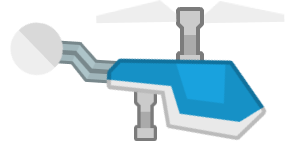
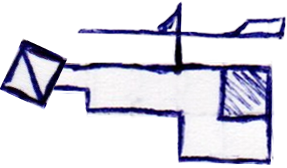
Fix spawn block logic

diff --git a/js/entities/transports/Crane.js b/js/entities/transports/Crane.js
@@ -2,82 +2,68 @@ import { Transport } from './Transport.js';
 import { CONFIG } from '../../config.js';
 
 /**
- * Кран — раскачивается по синусоиде (зона "Земля")
- * Использует загруженный PNG-спрайт.
+ * Кран: жёстко закреплён вверху экрана, раскачивается.
+ * Блок спавнится строго под нижней границей спрайта.
  */
 export class Crane extends Transport {
     constructor(scene) {
         super(scene);
         this.craneSprite = null;
+        this.currentX = scene.scale.width / 2;
+        
+        // Расстояние от ВЕРХНЕГО края экрана до верха крана
+        this.SCREEN_Y = -10; 
     }
 
     activate(spawnY) {
         super.activate(spawnY);
-        this.baseY = spawnY;
 
-        // Создаём спрайт крана, если его ещё нет
         if (!this.craneSprite) {
             this.craneSprite = this.scene.add.image(0, 0, CONFIG.TEXTURES.CRANE);
-
-            // Масштаб 1.5
+            
             this.craneSprite.setScale(1);
-            
-            // Точка привязки: верхний центр спрайта
             this.craneSprite.setOrigin(0.5, 0); 
-            
-            // Фиксируем на экране, чтобы он не уезжал вместе с камерой вниз
-            this.craneSprite.setScrollFactor(0); 
-            
-            // Рисуем поверх блоков (depth 50), но под UI (depth 100+)
-            this.craneSprite.setDepth(50); 
+            this.craneSprite.setScrollFactor(0);
+            this.craneSprite.setDepth(50);
         }
 
-        this.craneSprite.setPosition(this.currentX, 0);
+        this.craneSprite.setPosition(this.currentX, this.SCREEN_Y);
         this.craneSprite.setVisible(true);
     }
 
-    /*
-    getBlockAttachPoint() {
-        // Кран закреплён на экране на Y=50
-        // Чтобы получить мировую координату, нужно добавить scrollY камеры
+        getBlockSpawnPosition() {
+        if (!this.craneSprite) {
+            return { x: this.scene.scale.width / 2, y: 100 };
+        }
+
         const cameraScrollY = this.scene.cameras.main.scrollY;
-        const craneScreenY = 0; // Позиция крана на экране
-        const craneWorldY = craneScreenY; //+ cameraScrollY;
-        
-        // Нижняя граница крана в мировых координатах
-        const craneBottom = craneWorldY; //+ (this.craneSprite.displayHeight);
-        
+        const craneWorldY = this.craneSprite.y + cameraScrollY;
+        const craneBottom = craneWorldY + this.craneSprite.displayHeight;
+       
+        const gap = 50;
+
         return {
-            x: this.craneSprite.x,
-            y: craneBottom
+            x: this.currentX,
+            y: craneBottom + gap
         };
     }
-        */
-
-    /**
-     * @param {number} time
-     * @param {number} delta
-     * @param {object} zoneConfig - параметры зоны (swing, speed)
-     */
 
     update(time, delta, zoneConfig) {
         const centerX = this.scene.scale.width / 2;
-        const offset = Math.sin(time * CONFIG.CRANE.SPEED) * CONFIG.CRANE.SWING;
-        const craneX = centerX + offset;
-        const craneY = -10; // Отступ от самого верха экрана
+        const speed = zoneConfig?.speed || CONFIG.CRANE.SPEED;
+        const swing = zoneConfig?.swing || CONFIG.CRANE.SWING;
 
-        // Обновляем позицию крана
+        const offset = Math.sin(time * speed) * swing;
+        this.currentX = centerX + offset;
+
         if (this.craneSprite) {
-            this.craneSprite.setPosition(craneX, craneY);
+            this.craneSprite.setPosition(this.currentX, this.SCREEN_Y);
         }
 
-        
-        // Возвращаем координаты, где должен появиться блок
         return { 
-            x: craneX, 
-            y: craneY
+            x: this.currentX, 
+            y: this.baseY 
         };
-        
     }
 
     deactivate() {
@@ -93,9 +79,5 @@ export class Crane extends Transport {
             this.craneSprite.destroy();
             this.craneSprite = null;
         }
-    }
-
-     getBlockOffsetY() {
-        return 0;
     }
 }

diff --git a/js/GameScene.js b/js/GameScene.js
@@ -168,17 +168,22 @@ export default class GameScene extends Phaser.Scene {
         const zone = getZoneByDistance(this.distanceLeft);
         const spawnY = this.cameras.main.scrollY + CONFIG.CAMERA.SPAWN_OFFSET;
 
-        // Создаём/активируем нужный транспорт
+        // Создаём/активируем транспорт
         if (!this.activeTransport || this.activeTransport.constructor.name.toLowerCase() !== zone.transport) {
             if (this.activeTransport) this.activeTransport.destroy();
             this.activeTransport = this.transportFactories[zone.transport]();
         }
         this.activeTransport.activate(spawnY);
 
-        // Создаём активный блок под транспортом
-        const pos = this.activeTransport.update(0, 0);
-        this.activeBlock = new Block(this, pos.x, pos.y + this.activeTransport.getBlockOffsetY());
+        // Обновляем позицию транспорта
+        this.activeTransport.update(this.time.now, 0, this.currentZone);
+        
+        // 🎯 ВЫЗОВ БЕЗ АРГУМЕНТОВ
+        const spawnPos = this.activeTransport.getBlockSpawnPosition();
 
+        // Создаём блок
+        this.activeBlock = new Block(this, spawnPos.x, spawnPos.y);
+        
         if (zone.transport === 'crane') {
             this.activeBlock.addGlow();
         }
@@ -480,13 +485,13 @@ export default class GameScene extends Phaser.Scene {
 
         // Обновление транспорта и позиции активного блока
         if (this.activeBlock && !this.isDropping && !this.isGameOver && this.activeTransport) {
-            const pos = this.activeTransport.update(time, delta, this.currentZone);
-            this.activeBlock.sprite.setPosition(
-                pos.x,
-                pos.y + this.activeTransport.getBlockOffsetY()
-            );
+            this.activeTransport.update(time, delta, this.currentZone);
+            
+            // 🎯 ВЫЗОВ БЕЗ АРГУМЕНТОВ
+            const blockPos = this.activeTransport.getBlockSpawnPosition();
+            
+            this.activeBlock.sprite.setPosition(blockPos.x, blockPos.y);
 
-            // Проверка выхода транспорта за границы (для корабля)
             if (this.activeTransport.isOutOfBounds()) {
                 this.gameOver();
             }

diff --git a/js/entities/transports/Transport.js b/js/entities/transports/Transport.js
@@ -1,3 +1,5 @@
+import { CONFIG } from "../../config";
+
 /**
  * Базовый класс для транспорта (Crane, Helicopter, Ship).
  * Использует паттерн "Стратегия" — сцена не знает деталей движения.
@@ -10,6 +12,7 @@ export class Transport {
         this.scene = scene;
         this.sprite = null;
         this.active = false;
+         this.blockGap = - 10; 
     }
 
     /**
@@ -46,13 +49,14 @@ export class Transport {
     isOutOfBounds() {
         return false;
     }
-
-    /**
-     * Возвращает Y-координату для подвешенного блока
-     * @returns {number}
-     */
-    getBlockOffsetY() {
-        return 50;
+  
+     getBlockSpawnPosition() {
+        if (!this.sprite) return { x: 0, y: 0 };
+        
+        return {
+            x: this.sprite.x,
+            y: this.sprite.y + this.sprite.displayHeight + this.blockGap
+        };
     }
 
     destroy() {

diff --git a/js/entities/transports/Ship.js b/js/entities/transports/Ship.js
@@ -13,6 +13,7 @@ export class Ship extends Transport {
         this.baseY = 0;
         this.amplitude = 0;
         this.spawnTime = 0;
+        this.blockGap = -50;
     }
 
     activate(spawnY) {
@@ -55,9 +56,5 @@ export class Ship extends Transport {
         const margin = 150;
         return (this.direction === 1 && this.sprite.x > this.scene.scale.width + margin) ||
                (this.direction === -1 && this.sprite.x < -margin);
-    }
-
-    getBlockOffsetY() {
-        return 180;
     }
 }

diff --git a/js/entities/transports/Helicopter.js b/js/entities/transports/Helicopter.js
@@ -11,6 +11,7 @@ export class Helicopter extends Transport {
         this.direction = 1;
         this.speed = 0;
         this.baseY = 0;
+        this.blockGap = -20;
 
         // Состояние зависания
         this.isHovering = false;
@@ -85,9 +86,5 @@ export class Helicopter extends Transport {
             x: this.sprite.x,
             y: this.baseY,
         };
-    }
-
-    getBlockOffsetY() {
-        return 120;
     }
 }

diff --git a/js/config.js b/js/config.js
@@ -31,12 +31,14 @@ export const CONFIG = {
         HOVER_DURATION_MAX: 1400,
         NEXT_HOVER_MIN: 1500,
         NEXT_HOVER_MAX: 3000,
+        SPAWN_OFFSET: -18,
     },
     SHIP: {
         SPEED_MIN: 180,
         SPEED_MAX: 300,
         AMPLITUDE_MIN: 30,
         AMPLITUDE_MAX: 70,
+        SPAWN_OFFSET: -20,
     },
 
     TEXTURES: {
